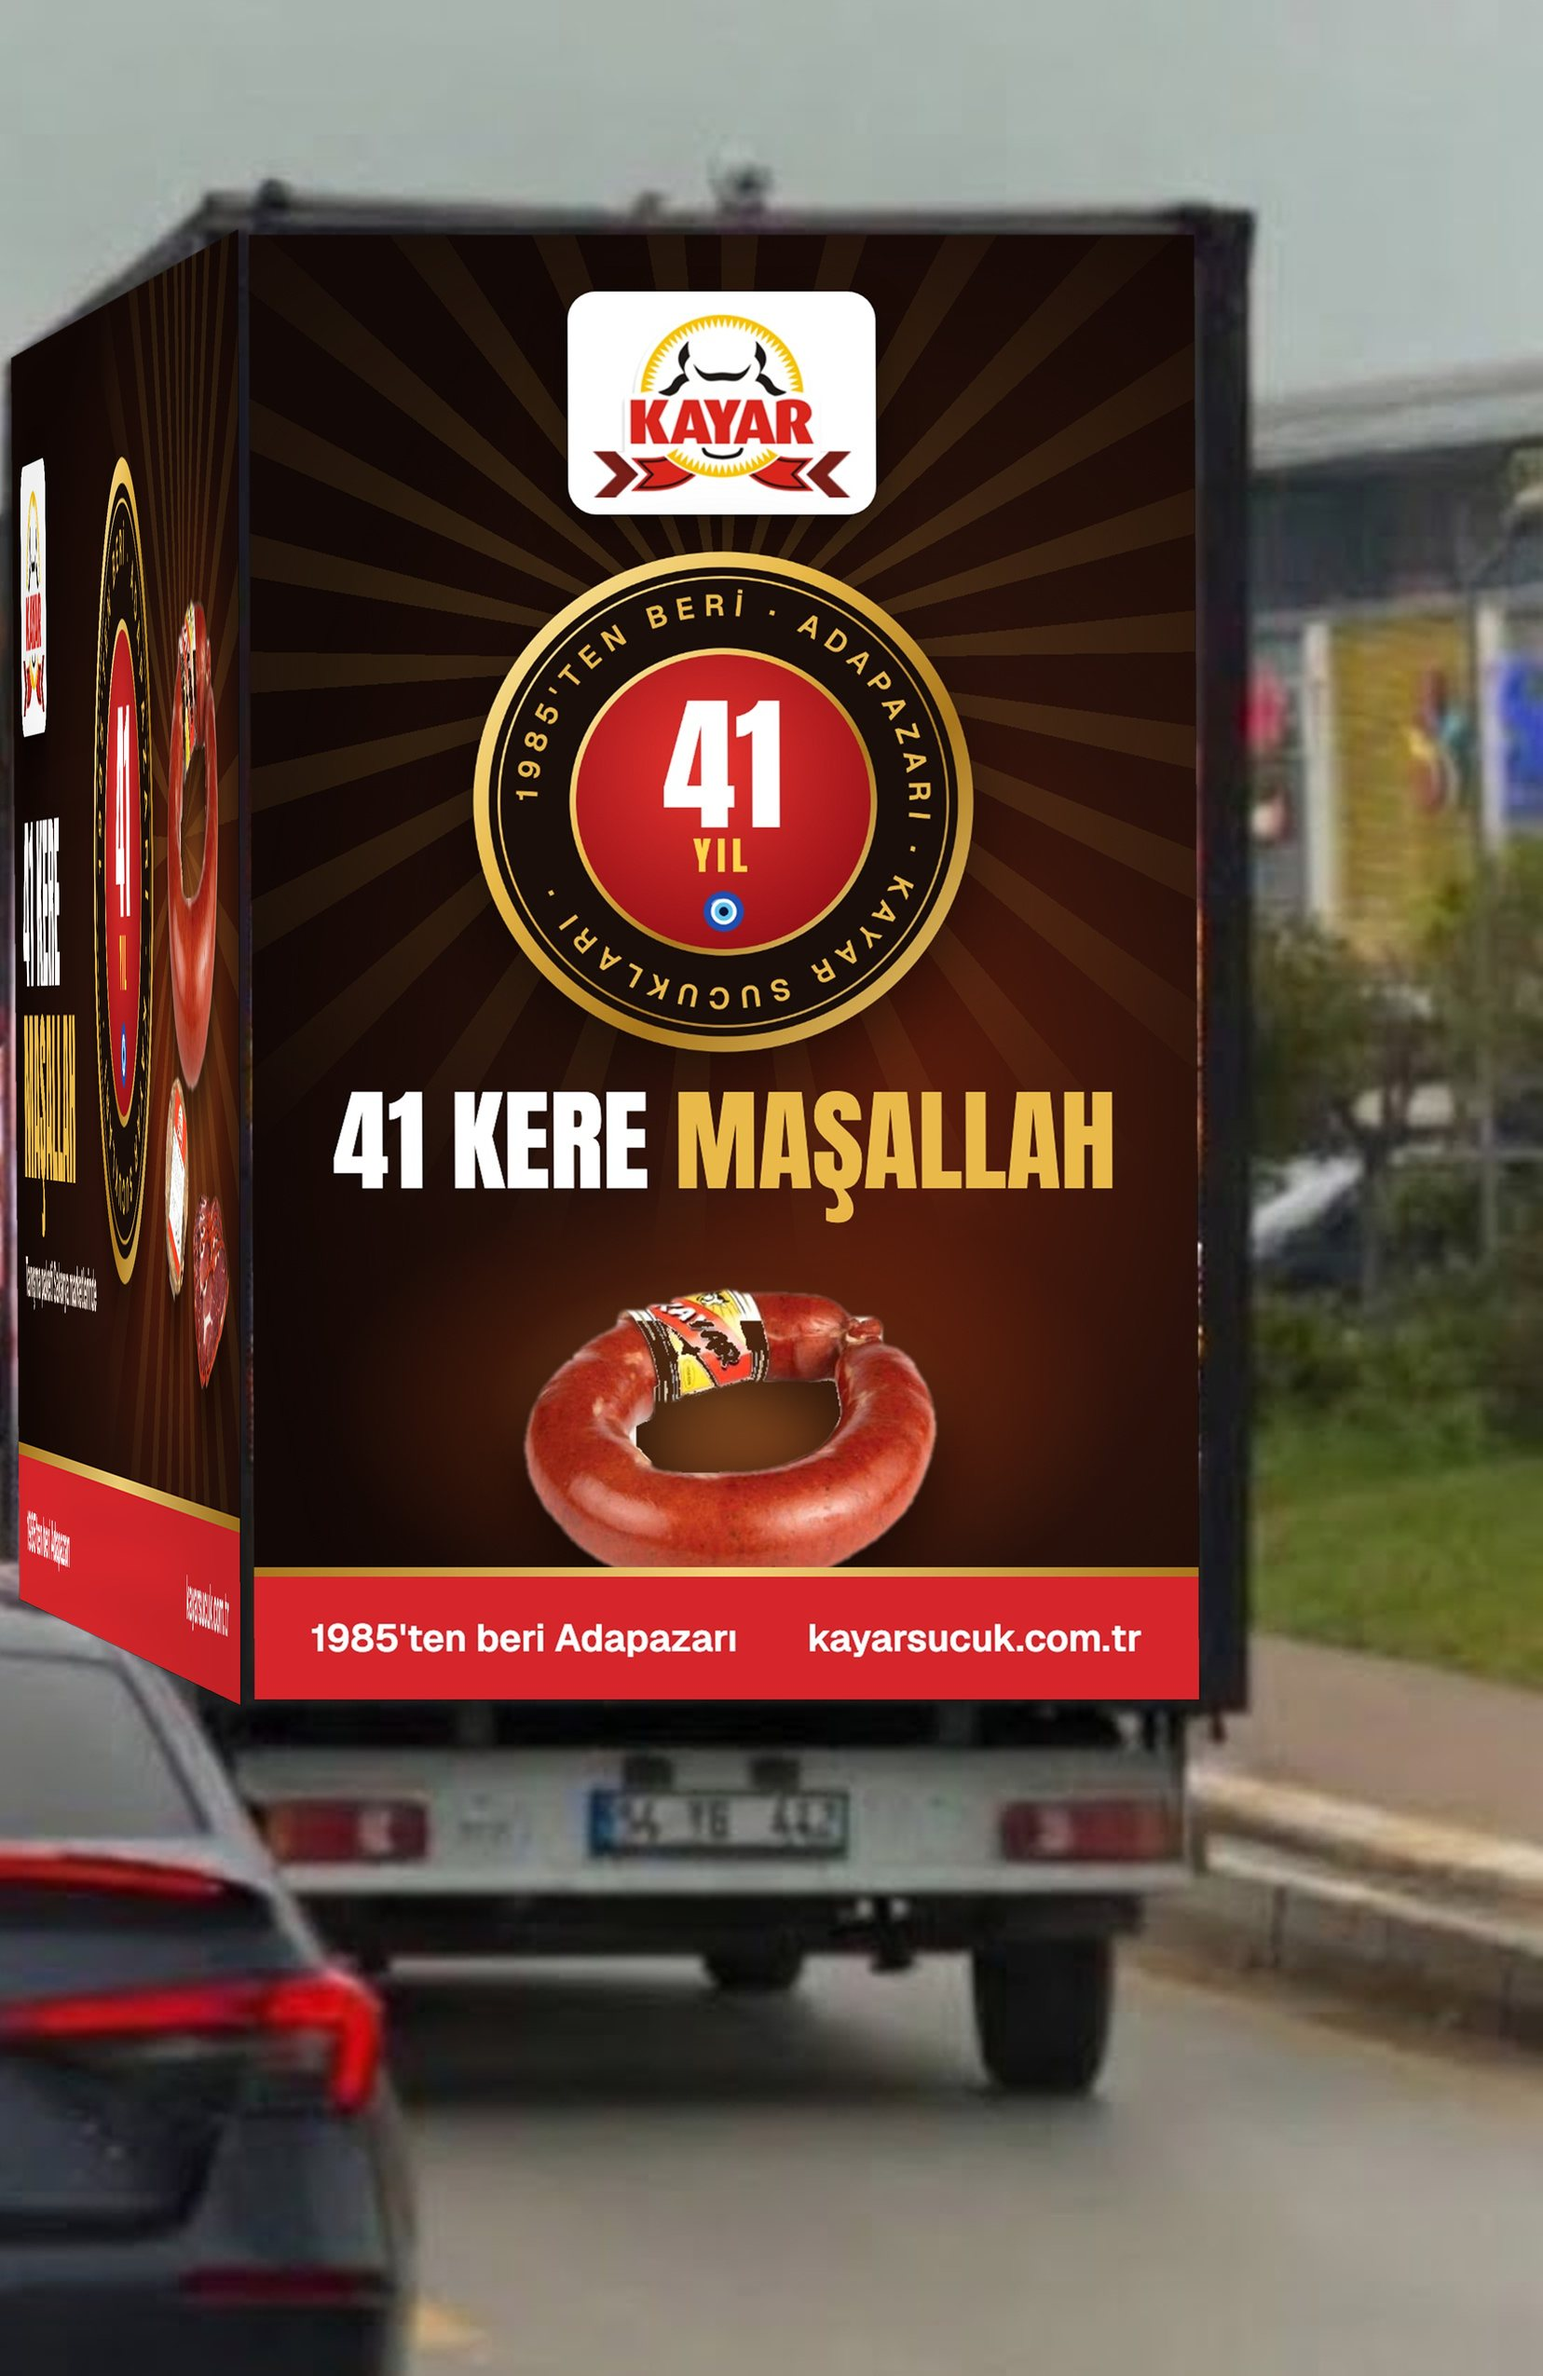
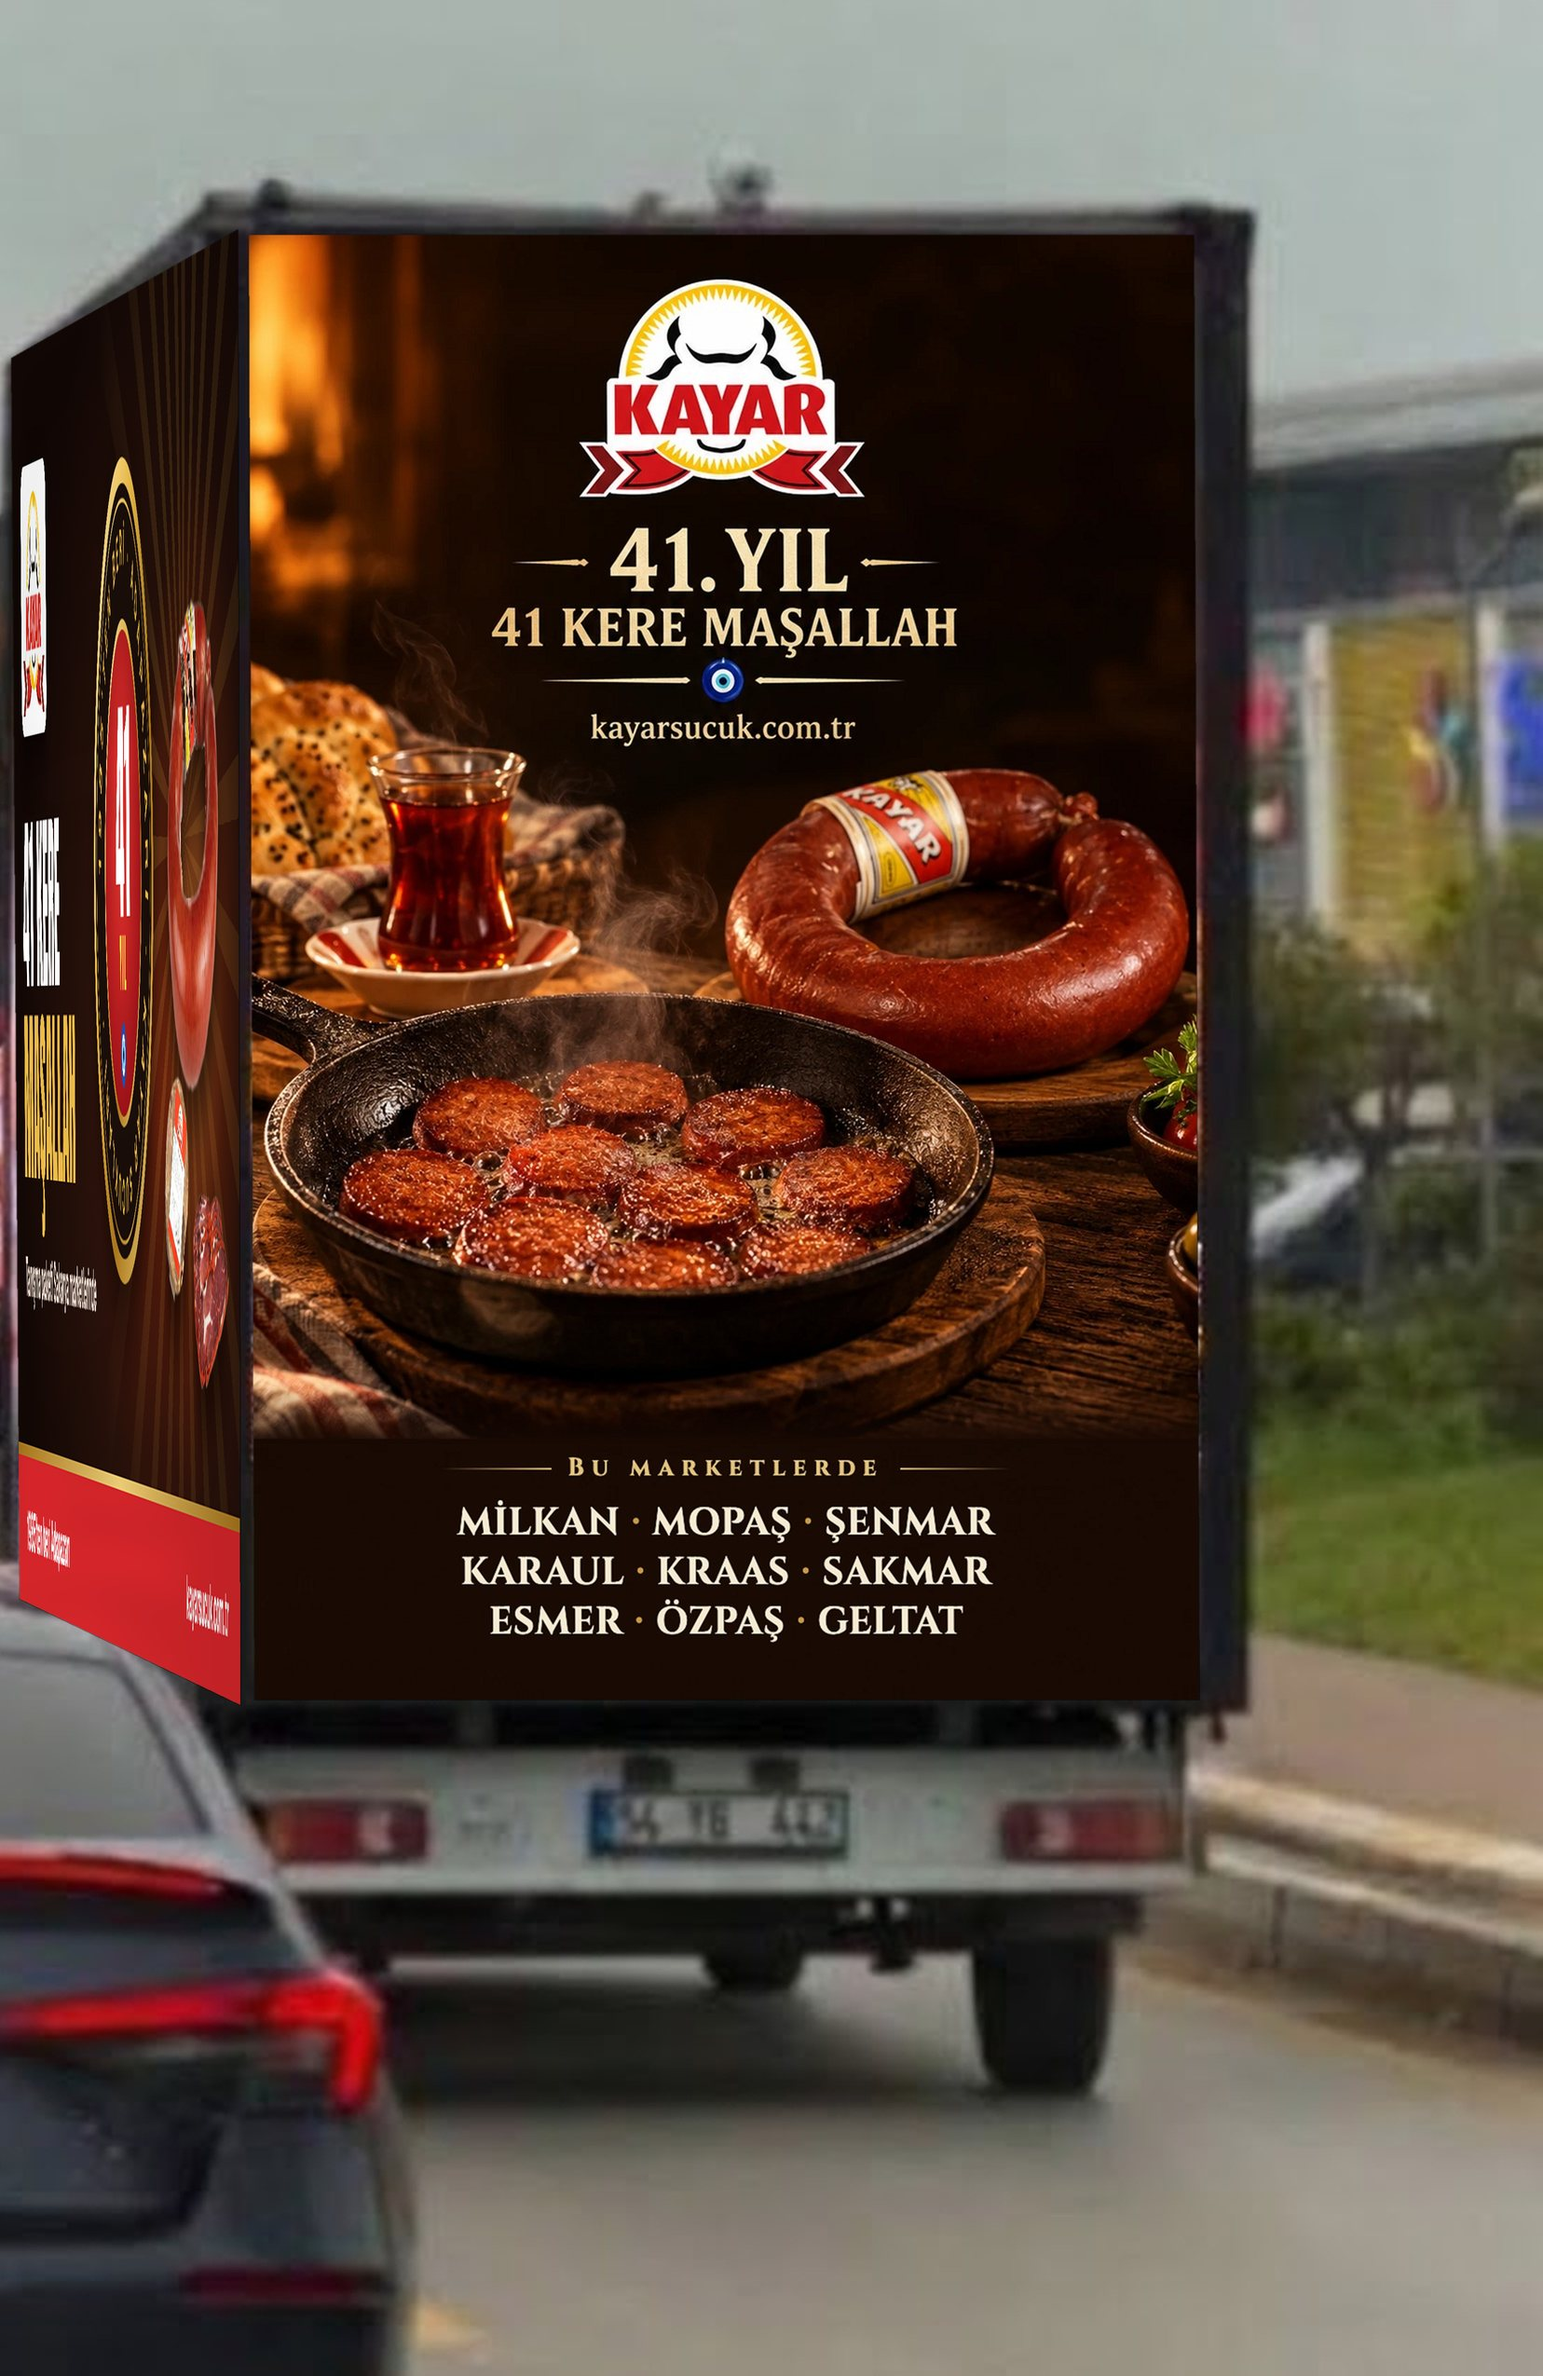
Kayar 41. yıl: arka ekran yeni görsel, alt şeritte marketler

Changed region(s): [[0.154, 0.0929, 0.8007, 0.7435]]

diff --git a/static/calisma/kayar-ty0gwr/index.html b/static/calisma/kayar-ty0gwr/index.html
@@ -233,7 +233,7 @@ main .wrap{padding-block:16px}
     <div class="tr">
       <figure class="vis"><img src="g/arac41.jpg" alt="Kayar reklam aracı, 41. yıl tasarımı, örnek görünüm" width="1656" height="2550" loading="lazy"><figcaption>Örnek görünüm · Sakarya'daki reklam aracı, arka ve yan ekran</figcaption></figure>
       <div class="flat">
-        <figure class="vis"><span class="tag">Arka · dikey</span><img src="g/arka41.jpg" alt="Arka ekran tasarımı" width="800" height="1240" loading="lazy"></figure>
+        <figure class="vis"><span class="tag">Arka · dikey</span><img src="g/arka41.jpg" alt="Arka ekran tasarımı" width="800" height="1200" loading="lazy"></figure>
         <figure class="vis"><span class="tag">Yan · yatay</span><img src="g/yan41.jpg" alt="Yan ekran tasarımı" width="1600" height="696" loading="lazy"></figure>
         <div class="panel">
           <p class="label">Araçta dikkat</p>
